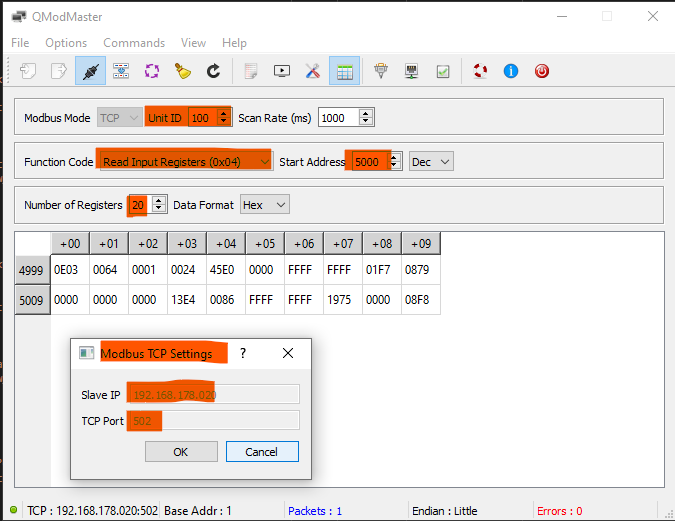
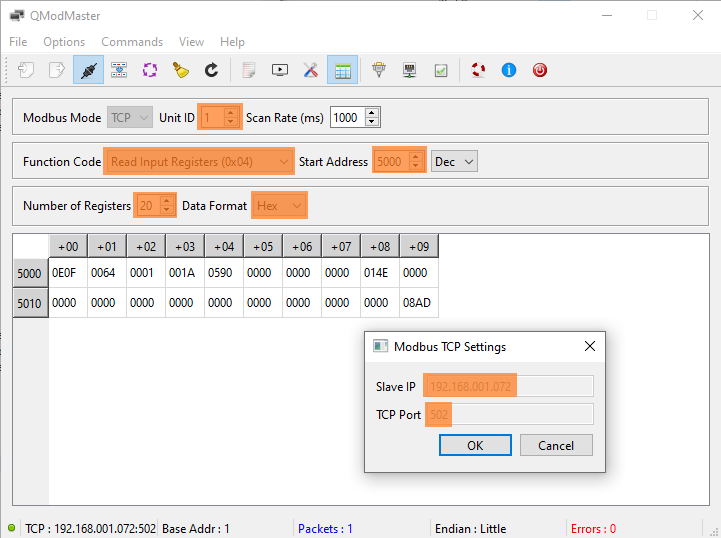
Update QModMaster.png

Changed region(s): [[0.0, 0.0, 1.0, 1.0]]

diff --git a/doc/help.md b/doc/help.md
@@ -43,6 +43,13 @@ If you are using Windows you can easily check, if the modbus connection generall
 
 I tested it with the values shown in the screenshot. First set the TCP Settings (Options --> Modbus TCP) then adapt all highlighted parameters
 
+The following values must match values from your `secrets.yaml`
+```
+Slave IP = sungrow_modbus_host_ip
+TCP Port = sungrow_modbus_port
+Unit ID = sungrow_modbus_slave
+```
+
 ![QModMaster setting ](/doc/images/QModMaster.png)
 
 
